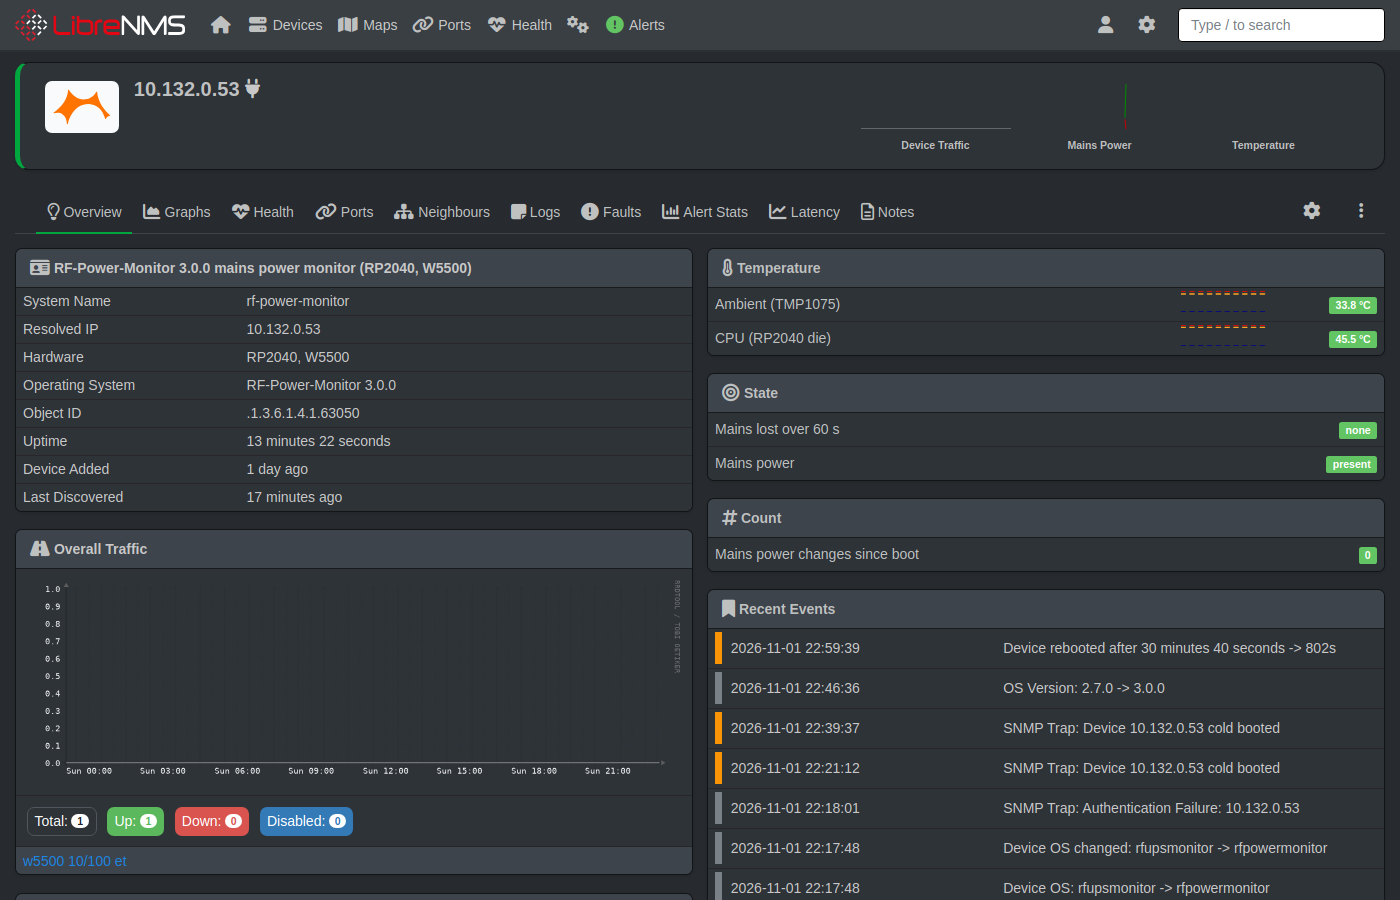
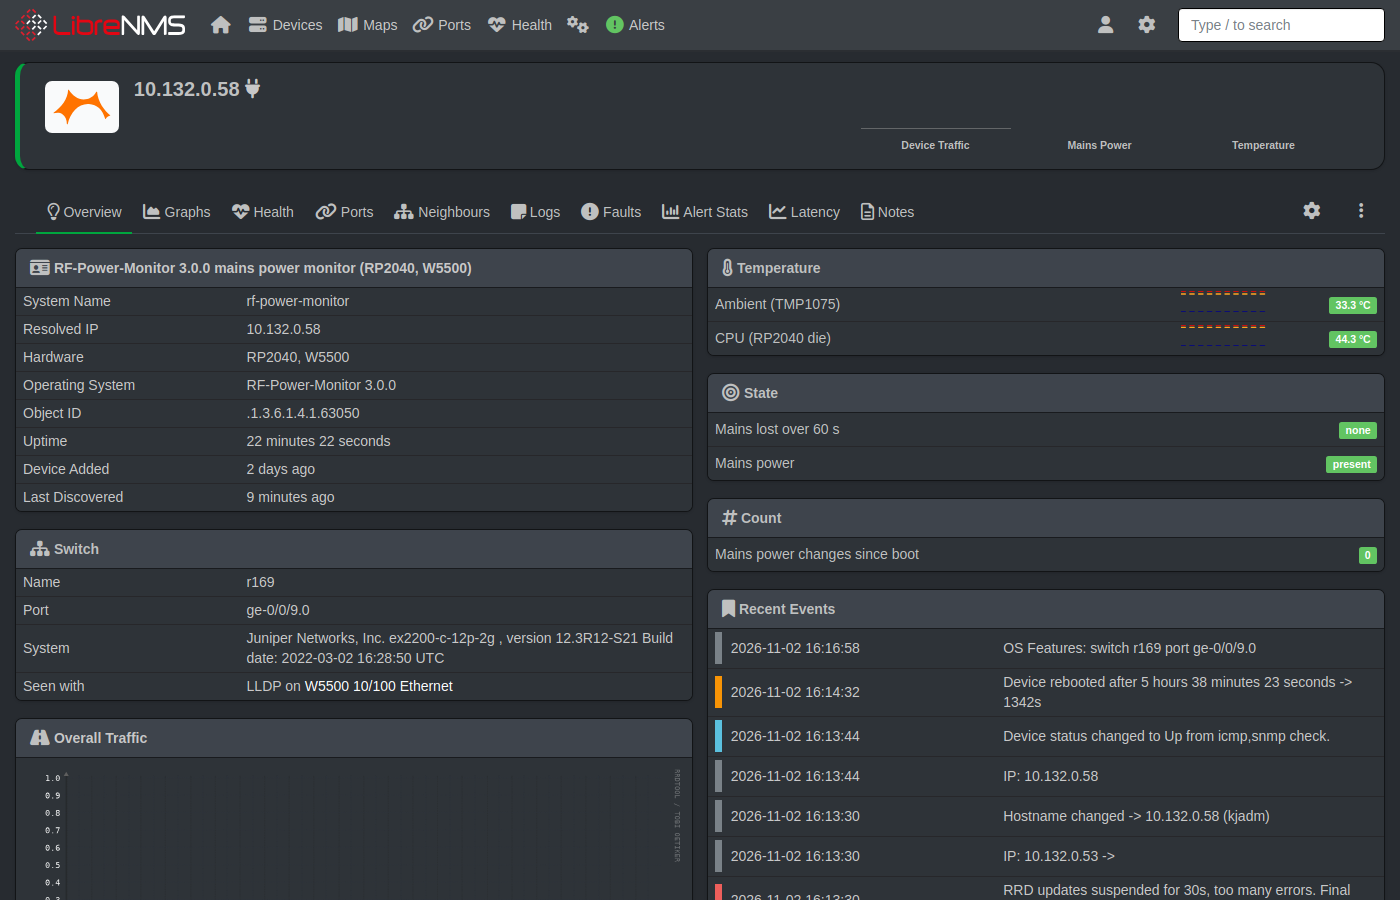
LibreNMS: Switch box on the device Overview (plugin)
A LibreNMS plugin (librenms/plugins/RFPowerMonitor, optional, copied to
app/Plugins/) adds a Switch box to the Overview page of RF-Power-Monitor
devices: the switch, port and system description the device sees over
LLDP, from the same links as the Neighbours tab, or "No switch seen".
The Docker test setup mounts it. Docs and the overview screenshot updated.
Checked with LibreNMS 26.10.2.

diff --git a/librenms/plugins/RFPowerMonitor/resources/views/device-overview.blade.php b/librenms/plugins/RFPowerMonitor/resources/views/device-overview.blade.php
@@ -1,0 +1,41 @@
+{{-- "Switch" box on the device Overview: the LLDP neighbour, rows styled like the system box --}}
+<x-device.overview.panel :title="$title" icon="fa fa-sitemap" :href="route('device', ['device' => $device, 'tab' => 'neighbours'])">
+    <div class="tw:divide-y tw:divide-gray-300 tw:dark:divide-zinc-800">
+        @forelse($links as $link)
+            <div class="tw:grid tw:grid-cols-3 tw:items-center tw:gap-2.5 tw:px-2 tw:py-1 tw:hover:bg-neutral-100 tw:dark:hover:bg-dark-gray-300">
+                <div class="tw:font-medium">{{ __('Name') }}</div>
+                <div class="tw:col-span-2 tw:min-w-0 tw:break-words">
+                    @if($link->remoteDevice)
+                        <x-device-link :device="$link->remoteDevice" />
+                    @else
+                        {{ $link->remote_hostname }}
+                    @endif
+                </div>
+            </div>
+            <div class="tw:grid tw:grid-cols-3 tw:items-center tw:gap-2.5 tw:px-2 tw:py-1 tw:hover:bg-neutral-100 tw:dark:hover:bg-dark-gray-300">
+                <div class="tw:font-medium">{{ __('Port') }}</div>
+                <div class="tw:col-span-2 tw:min-w-0 tw:break-words">
+                    @if($link->remotePort)
+                        <x-port-link :port="$link->remotePort" />
+                    @else
+                        {{ $link->remote_port }}
+                    @endif
+                </div>
+            </div>
+            @if($link->remote_version)
+                <div class="tw:grid tw:grid-cols-3 tw:items-center tw:gap-2.5 tw:px-2 tw:py-1 tw:hover:bg-neutral-100 tw:dark:hover:bg-dark-gray-300">
+                    <div class="tw:font-medium">{{ __('System') }}</div>
+                    <div class="tw:col-span-2 tw:min-w-0 tw:break-words">{{ $link->remote_version }}</div>
+                </div>
+            @endif
+            <div class="tw:grid tw:grid-cols-3 tw:items-center tw:gap-2.5 tw:px-2 tw:py-1 tw:hover:bg-neutral-100 tw:dark:hover:bg-dark-gray-300">
+                <div class="tw:font-medium">{{ __('Seen with') }}</div>
+                <div class="tw:col-span-2 tw:min-w-0 tw:break-words">
+                    {{ strtoupper($link->protocol) }}@if($link->port) {{ __('on') }} <x-port-link :port="$link->port" />@endif
+                </div>
+            </div>
+        @empty
+            <div class="tw:px-2 tw:py-1">{{ __('No switch seen (LLDP) at the last discovery') }}</div>
+        @endforelse
+    </div>
+</x-device.overview.panel>

diff --git a/librenms/plugins/RFPowerMonitor/DeviceOverview.php b/librenms/plugins/RFPowerMonitor/DeviceOverview.php
@@ -1,0 +1,39 @@
+<?php
+
+/**
+ * LibreNMS plugin: a "Switch" box on the Overview page of RF-Power-Monitor devices.
+ *
+ * Shows the switch and port the device is plugged into, from the LLDP links that
+ * LibreNMS's discovery-protocols module stores (read from the device's LLDP-MIB).
+ * Install: copy this directory to <librenms>/app/Plugins/RFPowerMonitor (docs/LIBRENMS.md).
+ */
+
+namespace App\Plugins\RFPowerMonitor;
+
+use App\Models\Device;
+use App\Models\User;
+use App\Plugins\Hooks\DeviceOverviewHook;
+
+class DeviceOverview extends DeviceOverviewHook
+{
+    /**
+     * Only RF-Power-Monitor devices get the box.
+     */
+    public function authorize(User $user, Device $device): bool
+    {
+        return $device->os === 'rfpowermonitor';
+    }
+
+    /**
+     * The device's active LLDP links (normally one: the switch port) for the view.
+     */
+    public function data(Device $device): array
+    {
+        return [
+            'title' => 'Switch',
+            'device' => $device,
+            'links' => $device->links()->where('active', 1)->with(['port', 'remoteDevice', 'remotePort'])->get(),
+            'neighboursUrl' => url('device/' . $device->device_id . '/neighbours'),
+        ];
+    }
+}

diff --git a/docs/LIBRENMS.md b/docs/LIBRENMS.md
@@ -56,6 +56,8 @@ cp <this repo>/mibs/RF-POWER-MONITOR-MIB.txt mibs/rfpowermonitor/RF-POWER-MONITO
 # RF logo: icon in device lists, logo on the device page
 cp <this repo>/librenms/images/os/rfpowermonitor.svg html/images/os/
 cp <this repo>/librenms/images/logos/rfpowermonitor.svg html/images/logos/
+# Optional: "Switch" box on the device's Overview page (plugin, see Switch and port below)
+cp -r <this repo>/librenms/plugins/RFPowerMonitor app/Plugins/
 ```
 
 Then add the device with SNMP v2c and its community (menu option 4 on the device; change it from `public`):
@@ -87,6 +89,8 @@ Since 2.7.0 the device answers the standard LLDP-MIB (`lldpLocPortTable`, `lldpR
 ```bash
 ./lnms device:discover <device> -m discovery-protocols
 ```
+
+With the plugin in `librenms/plugins/RFPowerMonitor` (copied to `app/Plugins/`, see Install) the device's **Overview** page also has a **Switch** box under the system box: the switch's name, its port, its system description and the device port LLDP was seen on, or "No switch seen" when discovery found none. It shows the same links as the Neighbours tab, so it changes at the same time, with each discovery. LibreNMS turns a newly copied plugin on by itself (Overview → Plugins → Plugin Admin lists it), and the box only appears on RF-Power-Monitor devices. Checked 2026-11-02 with LibreNMS 26.10.2.
 
 Junos sends its port as a number (its ifIndex, e.g. `523`) and the name only as description; LibreNMS labels the remote port with the port ID, so the device serves the name (`ge-0/0/9.0`) instead, as on its status screen.
 
@@ -146,6 +150,7 @@ The compose network has IPv6 (`enable_ipv6`, NATed by Docker), so the containers
 |---|---|
 | [librenms/os_detection/rfpowermonitor.yaml](../librenms/os_detection/rfpowermonitor.yaml) | Matches sysObjectID `.1.3.6.1.4.1.63050`; OS name, type, icon, MIB directory, overview graphs |
 | [librenms/os_discovery/rfpowermonitor.yaml](../librenms/os_discovery/rfpowermonitor.yaml) | Version and hardware from sysDescr; the state, temperature and count sensors |
+| [librenms/plugins/RFPowerMonitor/](../librenms/plugins/RFPowerMonitor/) | Optional plugin: the Switch box (LLDP neighbour) on the device's Overview page |
 | [mibs/RF-POWER-MONITOR-MIB.txt](../mibs/RF-POWER-MONITOR-MIB.txt) | Lets LibreNMS resolve the `RF-POWER-MONITOR-MIB::` names |
 | [librenms/test/snmptrap-agent-addr.php](../librenms/test/snmptrap-agent-addr.php) | Docker setup only: matches traps to the device by the address in them (v1 agent-addr, v2c snmpTrapAddress.0), which Docker's port forwarding would otherwise hide, and polls the sensors after a mains trap so the alert follows within seconds |
 | [librenms/images/os/rfpowermonitor.svg](../librenms/images/os/rfpowermonitor.svg), [librenms/images/logos/rfpowermonitor.svg](../librenms/images/logos/rfpowermonitor.svg) | The RF logo (from [logo/](../logo/)): square icon for device lists, wider logo for the device page. Named by `icon:` in the detection file; without them LibreNMS shows the generic icon |

diff --git a/CHANGELOG.md b/CHANGELOG.md
@@ -9,6 +9,7 @@ The format follows [Keep a Changelog](https://keepachangelog.com/en/1.1.0/), and
 ### Added
 - Setup manual (docs/SETUP_MANUAL.md: installing a device, first configuration, LibreNMS, proving the alarm) and user manual (docs/USER_MANUAL.md: daily use, alarms, settings, factory reset, firmware update, troubleshooting).
 - HIL tests for the "no link" and "no DHCP server" states (`test/hil/test_switch_port.py`, opt-in `RFPOWER_SWITCH_CONFIG`): they disable the device's switch port or drop DHCP on it over the switch's console, with `commit confirmed` so the switch undoes a change a test could not, and check that the device recovers from both without a reboot.
+- LibreNMS plugin `librenms/plugins/RFPowerMonitor` (optional, copy to `app/Plugins/`): a **Switch** box on the device's Overview page with the switch, port and system description the device sees over LLDP, from the same links as the Neighbours tab. The Docker test setup mounts it. Checked with LibreNMS 26.10.2.
 
 ### Changed
 - Carrier board: silkscreen and title blocks say RF-Power-Monitor, and the board, schematic, fab files, renders and 3D models are regenerated (the generator's RF-Power-Monitor change in 3.0.0 had not been applied to them yet). ERC and DRC clean; nothing else on the board changed.

diff --git a/docs/SETUP_MANUAL.md b/docs/SETUP_MANUAL.md
@@ -135,7 +135,7 @@ If you don't want the web page at all, turn it off with menu option `8`.
 
    ![LibreNMS: alert rules, with "State Sensor Critical"](images/librenms/alert-rules.png)
 
-5. **Neighbours**: if the switch speaks LLDP, the device's Neighbours tab shows the switch and port. LibreNMS may try to add the switch as a device by itself; to stop that, see [docs/LIBRENMS.md](LIBRENMS.md#switch-and-port-lldp).
+5. **Neighbours**: if the switch speaks LLDP, the device's Neighbours tab shows the switch and port, and with the RF-Power-Monitor plugin installed (docs/LIBRENMS.md, Install) the Overview page shows them in a **Switch** box. LibreNMS may try to add the switch as a device by itself; to stop that, see [docs/LIBRENMS.md](LIBRENMS.md#switch-and-port-lldp).
 
    ![LibreNMS: the switch and port on the Neighbours tab](images/librenms/device-neighbours.png)
 

diff --git a/docs/USER_MANUAL.md b/docs/USER_MANUAL.md
@@ -44,7 +44,7 @@ Connect a USB cable and open a terminal (PuTTY: Serial, the device's COM port, 1
 
 ### LibreNMS
 
-The device page shows the sensors *Mains power* (OK / warning), *Mains lost over 60 s* (OK / critical), *CPU* and *Ambient* temperature and *Mains power changes since boot*, and the Ethernet port with its traffic:
+The device page shows the sensors *Mains power* (OK / warning), *Mains lost over 60 s* (OK / critical), *CPU* and *Ambient* temperature and *Mains power changes since boot*, the Ethernet port with its traffic, and in the **Switch** box the switch and port the device is plugged into (from LLDP, updated at each discovery; the box needs the RF-Power-Monitor plugin on the LibreNMS server):
 
 ![LibreNMS: the device page](images/librenms/device-overview.png)
 
